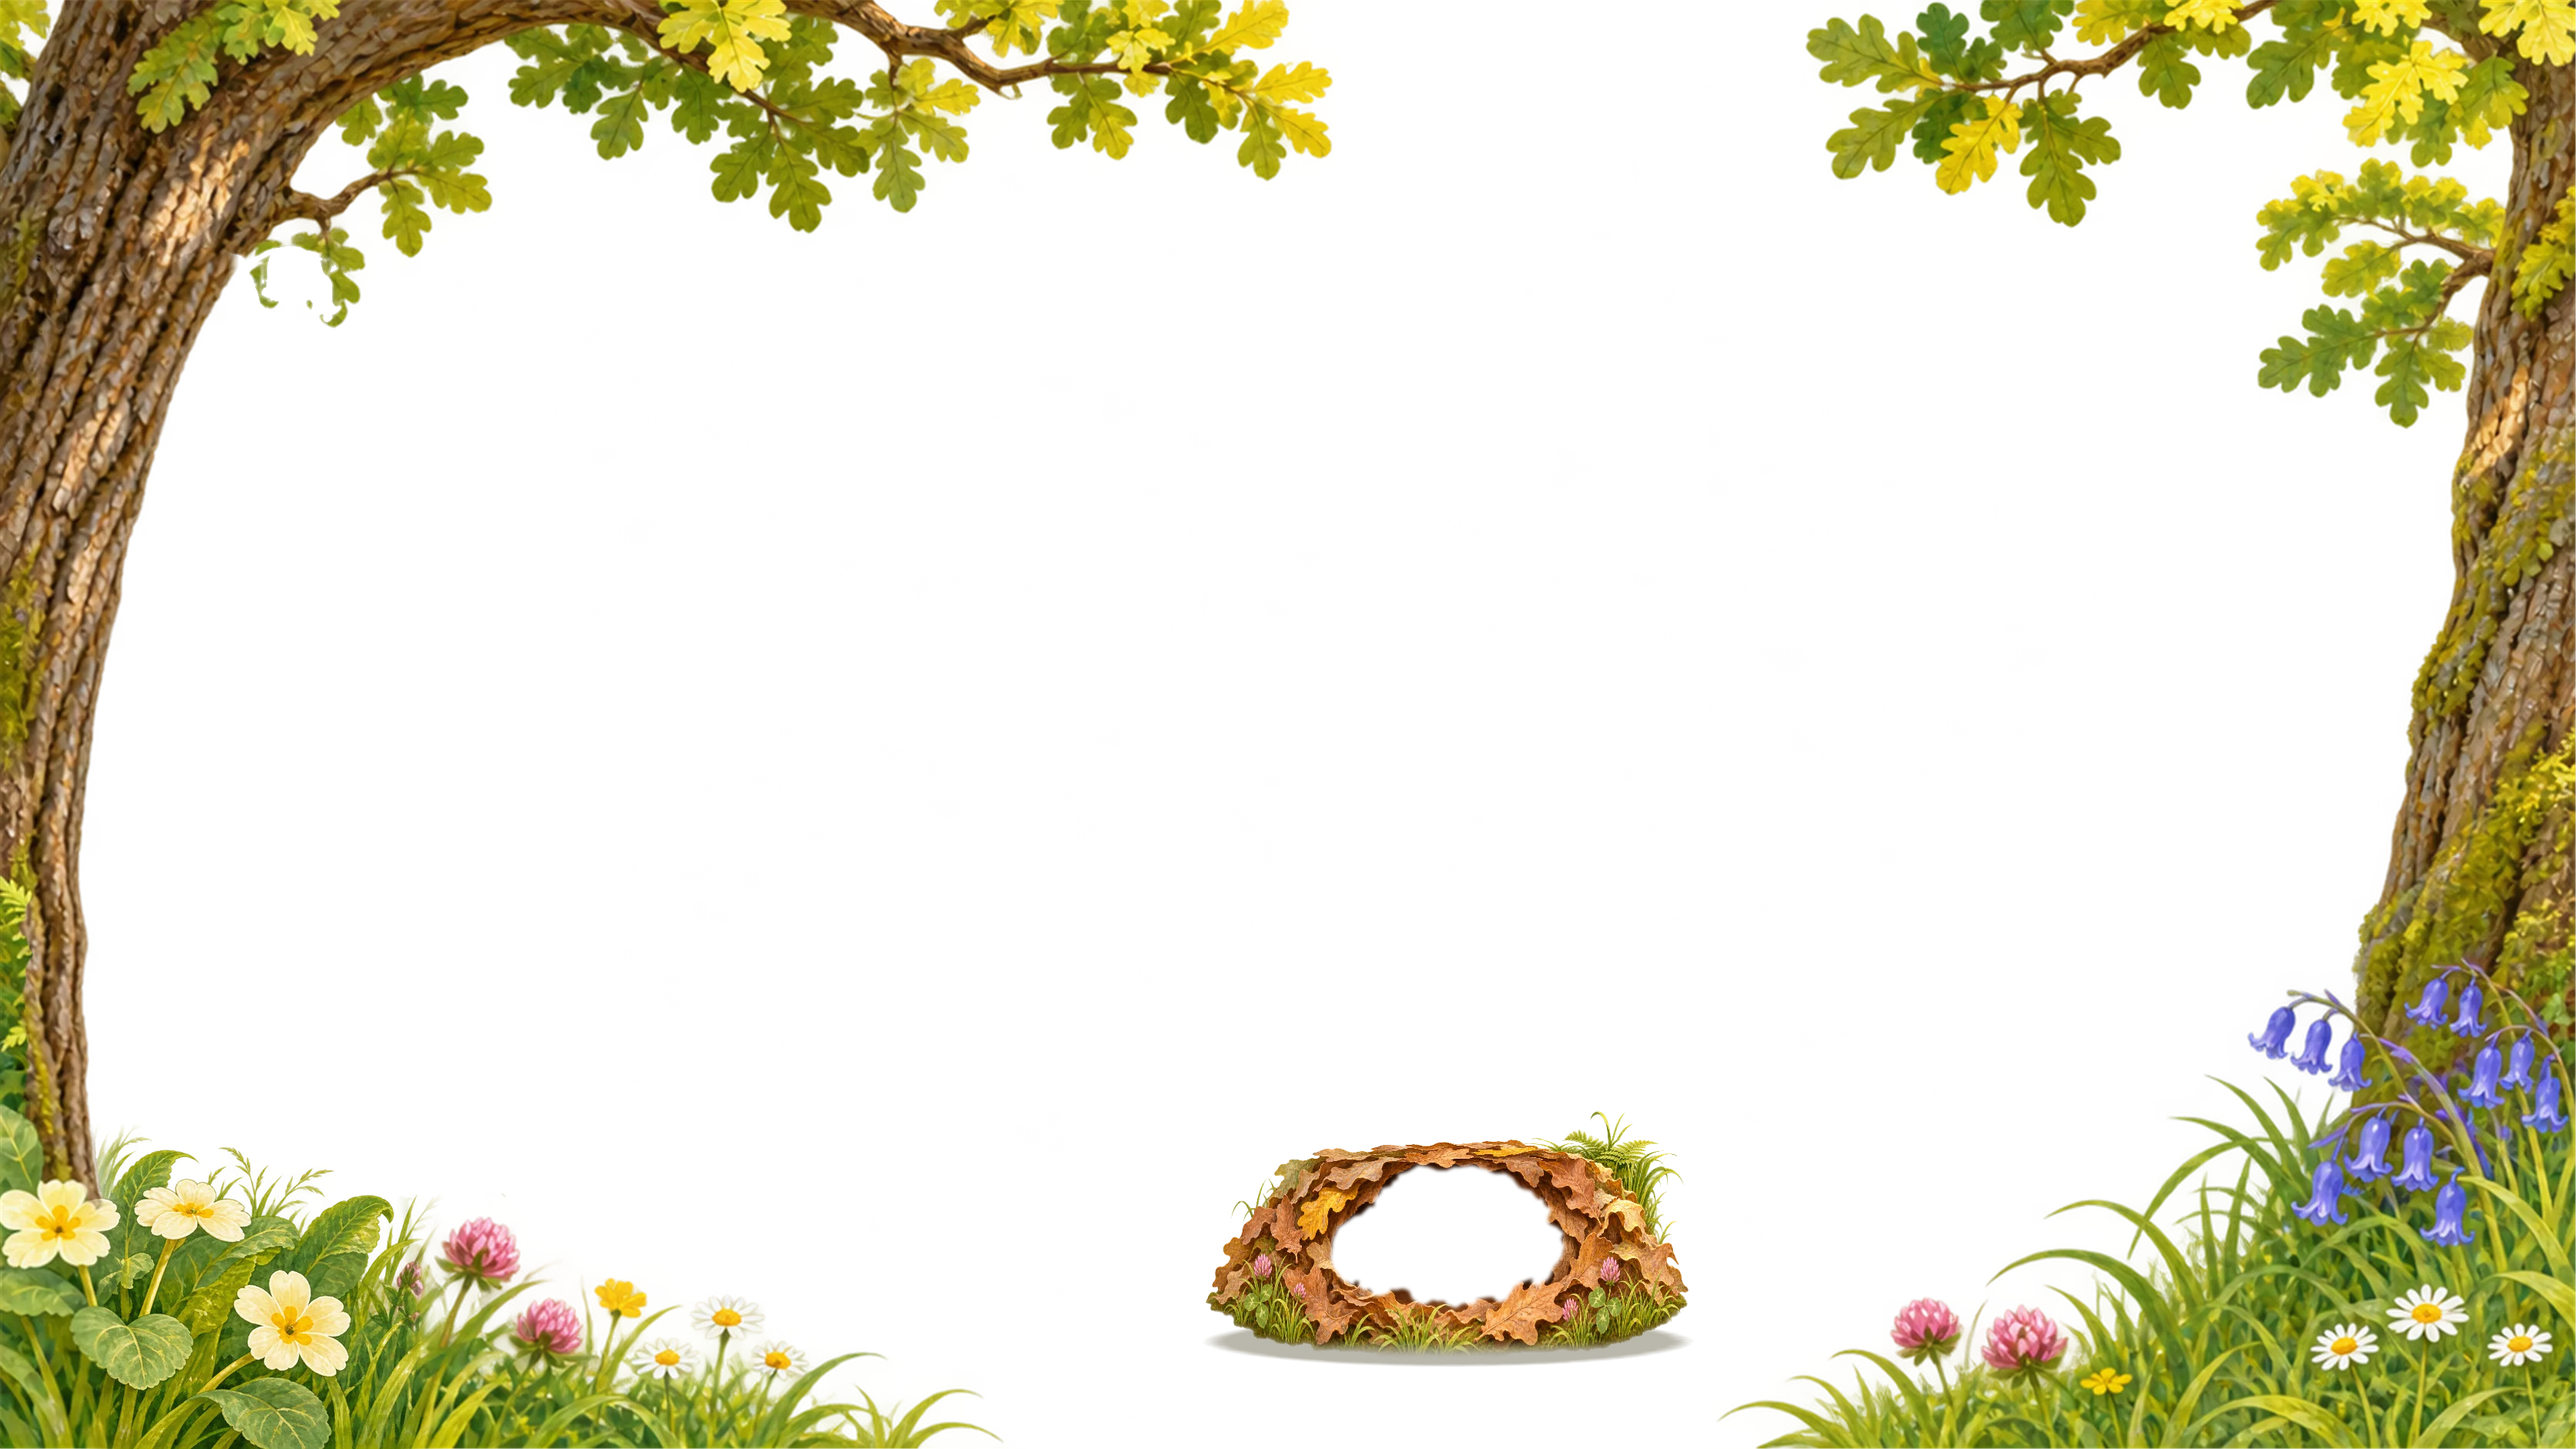
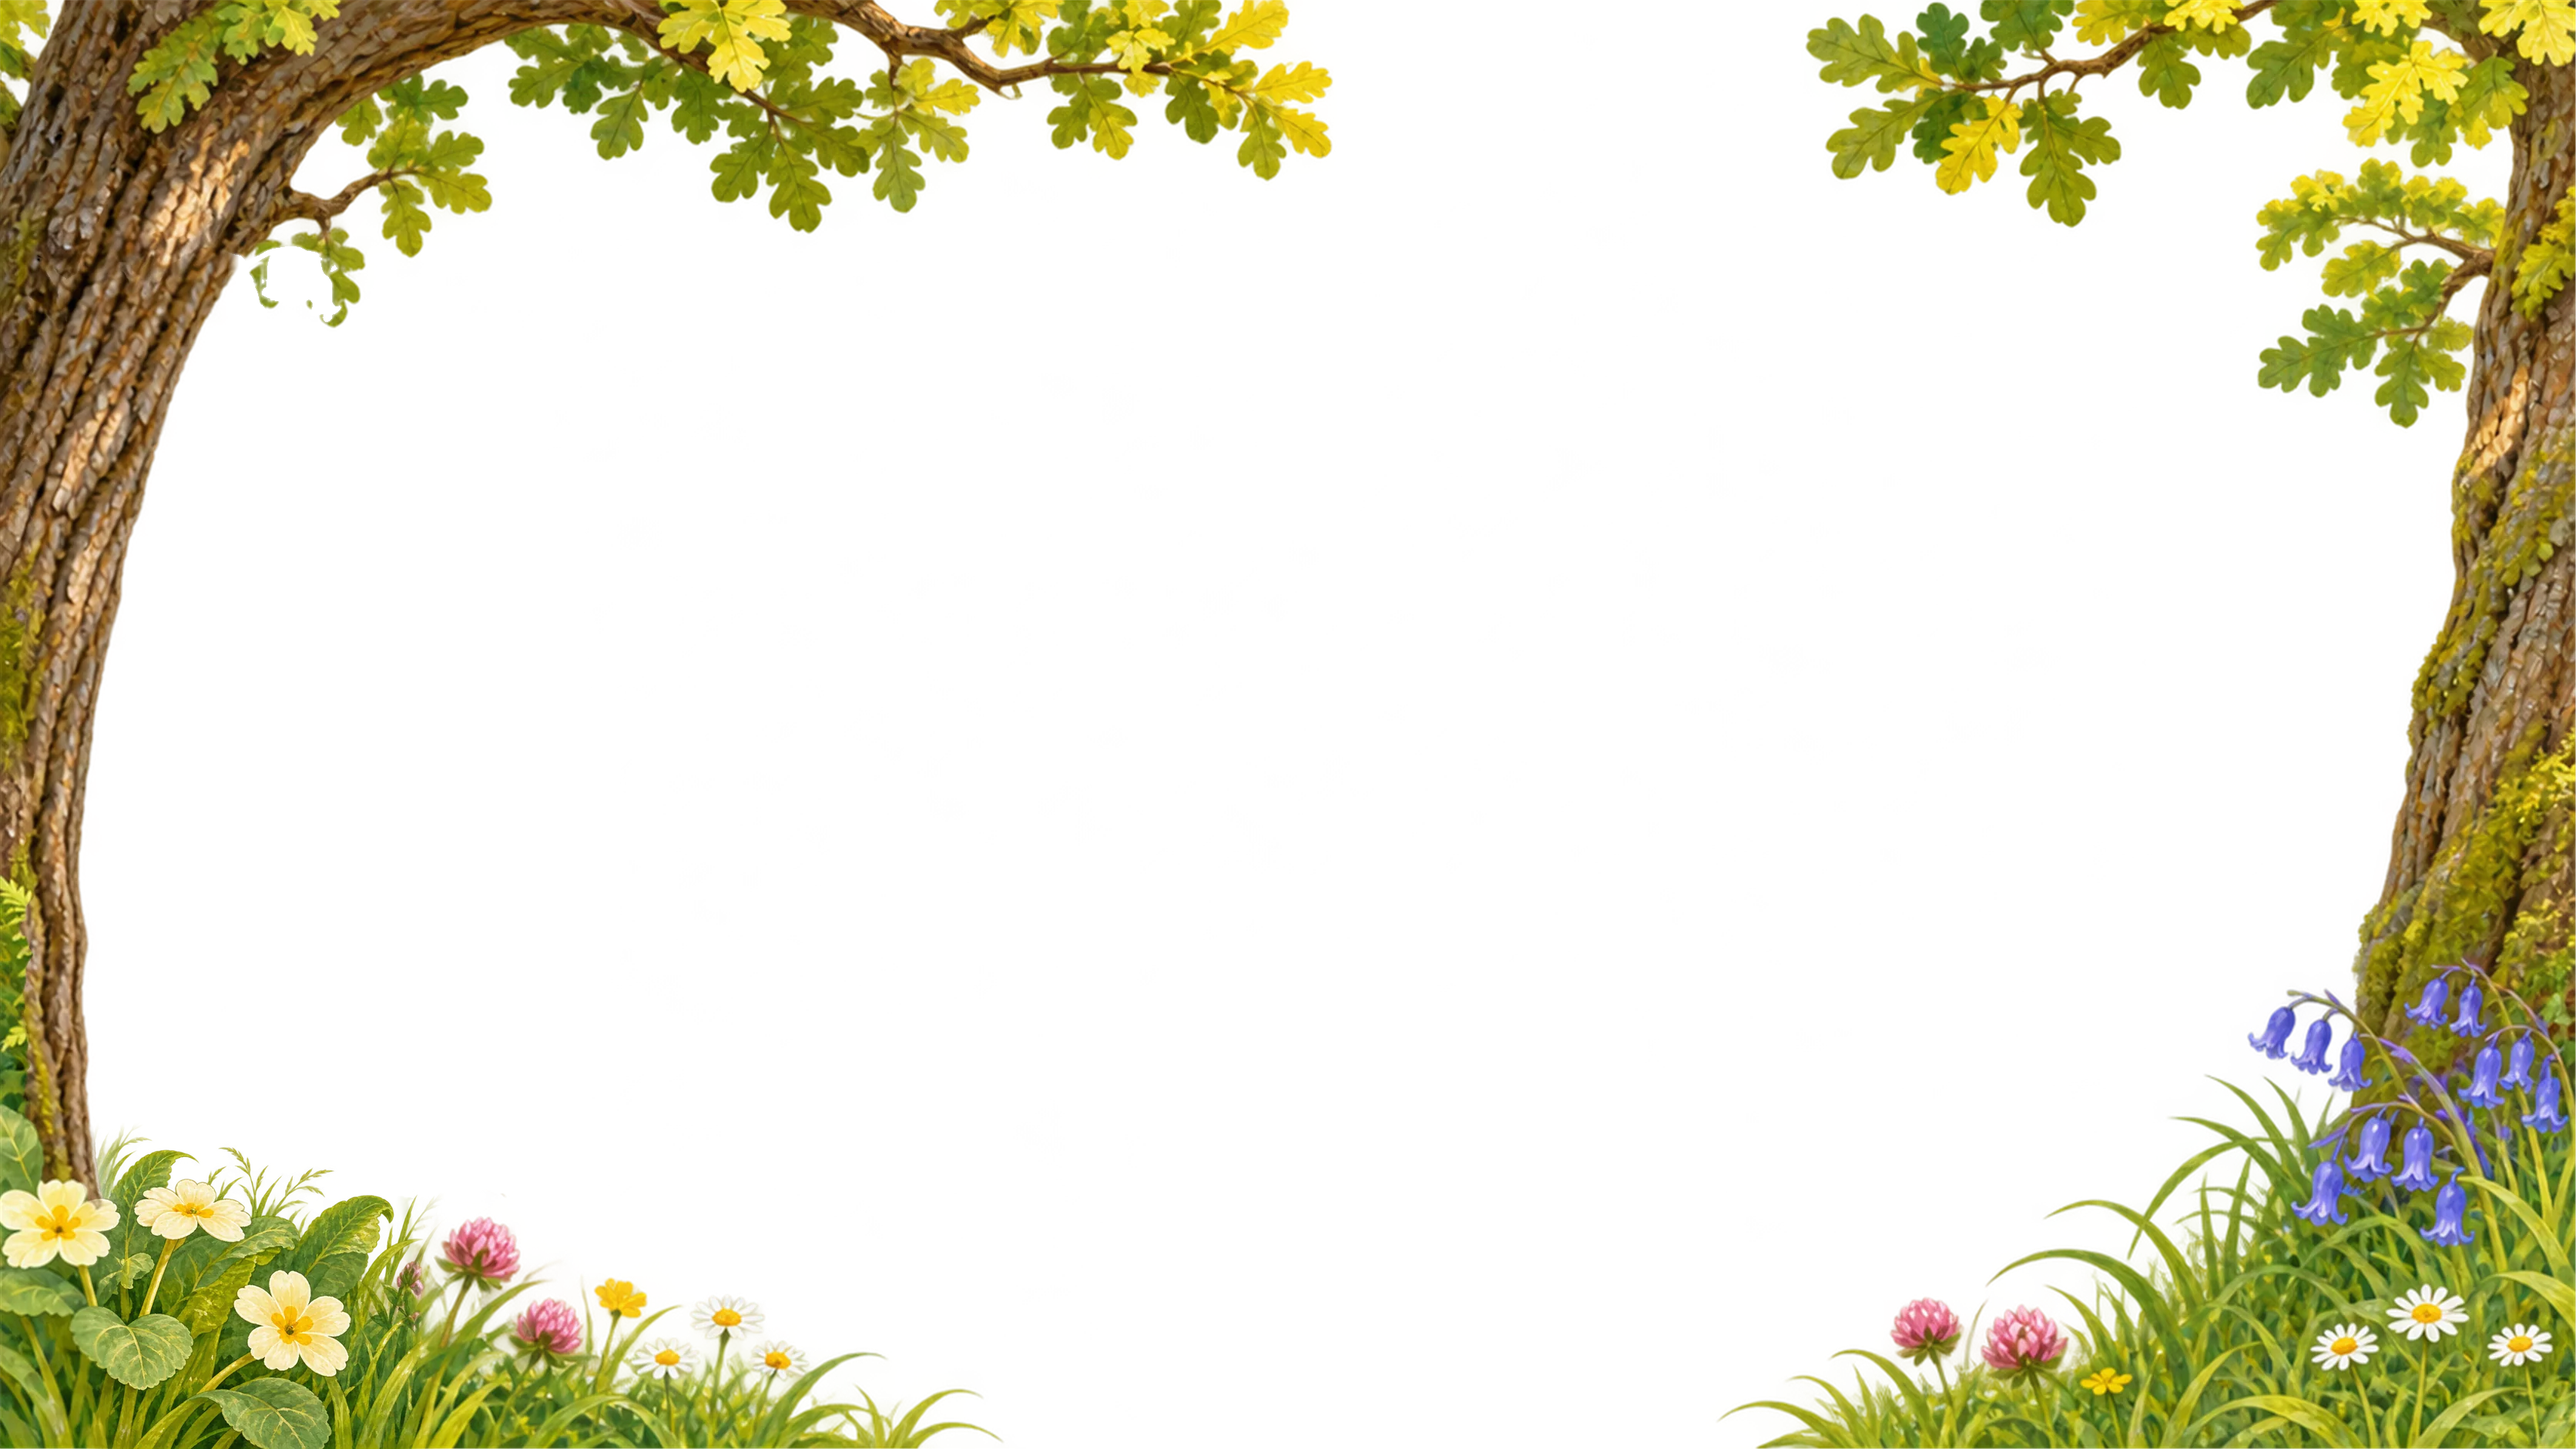
Landing: remove the leaf pile and its hedgehog peek
Owner rejected both. The pile is cut out of the foreground (the repainted meadow shows through),
the leaf-hollow layer and the five hedgehog poses are gone, and four animals peek (rabbit, fox,
badger, mouse). The new meadow with its path stays.

Changed region(s): [[0.4665, 0.7705, 0.6531, 0.9554]]

diff --git a/src/topics/painted-art.js b/src/topics/painted-art.js
@@ -3,7 +3,7 @@
 // id to READY. Until then every screen keeps its fallback look (the landing background picture),
 // so nothing breaks while art is out.
 // 23 November 2026: the owner chose landing concept A, Burrow Bank (docs/landing-art/).
-const LANDING = ["sky", "distant", "middle", "tunnels", "bank", "leaf-hollow", "foreground", "cloud-1", "cloud-2", "cloud-3"];
+const LANDING = ["sky", "distant", "middle", "tunnels", "bank", "foreground", "cloud-1", "cloud-2", "cloud-3"];
 export const READY = new Set(LANDING.map((n) => `landing/${n}`));
 
 let where = (id) => `assets/painted/${id}.webp`;
@@ -16,17 +16,16 @@ export const usePaintedSource = (fn) => { where = fn; };
 // A scene only switches over when all its planes are ready; clouds are added one by one.
 export const SCENES = {
   // The landing and the app backdrop behind every screen: the Burrow Bank. The dark tunnel insides
-  // sit right behind the bank (same depth) so the peeking animals rise out of the cut-out holes; the
-  // leaf hollow does the same for the hedgehog behind the foreground's leaf pile (FIX-4).
+  // sit right behind the bank (same depth) so the peeking animals rise out of the cut-out holes.
   backdrop: {
-    layers: [["landing/sky", 0], ["landing/distant", 0.2], ["landing/middle", 0.5], ["landing/tunnels", 0.62], ["landing/bank", 0.62], ["landing/leaf-hollow", 1], ["landing/foreground", 1]],
+    layers: [["landing/sky", 0], ["landing/distant", 0.2], ["landing/middle", 0.5], ["landing/tunnels", 0.62], ["landing/bank", 0.62], ["landing/foreground", 1]],
     clouds: [["landing/cloud-1", 7, 34], ["landing/cloud-2", 19, 24], ["landing/cloud-3", 12, 16]],
   },
 };
 
 // Burrow Bank peeks, measured on the 3344 x 1882 layers (docs/landing-art/2026-11-23-layers/holes.png).
-// x: centre of the opening; edge: the line the animal rises from behind (low in the opening, or the top
-// of the hedgehog's leaf pile); width: how wide the animal's 512 canvas is drawn, in layer pixels.
+// x: centre of the opening; edge: the line the animal rises from behind (low in the opening); width: how
+// wide the animal's 512 canvas is drawn, in layer pixels.
 // layer: the plane it rides with. Poses: ahead, left, right, blink and one special.
 const peek = (animal, special) => ["ahead", "left", "right", "blink", special].map((p) => `assets/painted/landing/peeks/${animal}-${p}.webp`);
 export const LANDING_PEEKS = {
@@ -37,8 +36,7 @@ export const LANDING_PEEKS = {
     { name: "fox", x: 528, edge: 1262, width: 300, depth: 0.62, poses: peek("fox", "sniff") },
     { name: "badger", x: 295, edge: 1515, width: 360, depth: 0.62, poses: peek("badger", "sniff") },
     { name: "mouse", x: 1410, edge: 1560, width: 190, depth: 0.62, poses: peek("mouse", "whiskers") },
-    // Hedgehog back 23 Nov (FIX-4): it sits inside the leaf pile's cut-out opening, crown under the arch.
-    { name: "hedgehog", x: 1885, edge: 1695, width: 330, depth: 1, poses: peek("hedgehog", "sniff") },
+    // 23 Nov: the owner had the leaf pile and its hedgehog removed; the meadow is open there now.
   ],
 };
 

diff --git a/docs/landing-art/2026-11-23-layers/FIX-4.md b/docs/landing-art/2026-11-23-layers/FIX-4.md
@@ -74,3 +74,7 @@ RGBA, all five line up exactly, only the named detail changes) with these change
 - `../2026-11-23-peeks/peeks/hedgehog-sheet.png`: the five new hedgehog poses in a row on mid-green.
 
 When finished, list anything skipped or unhappy with, and say if any layer doesn't line up.
+
+## Outcome (23 November 2026)
+
+The owner rejected the leaf pile and its hedgehog. The pile was cut out of `layers/foreground.png`; the leaf hollow, the seating check and the hedgehog peek were removed. The repainted middle stays. `preview-stacked.png`, `preview-phone.png` and `holes.png` still show the pile.
